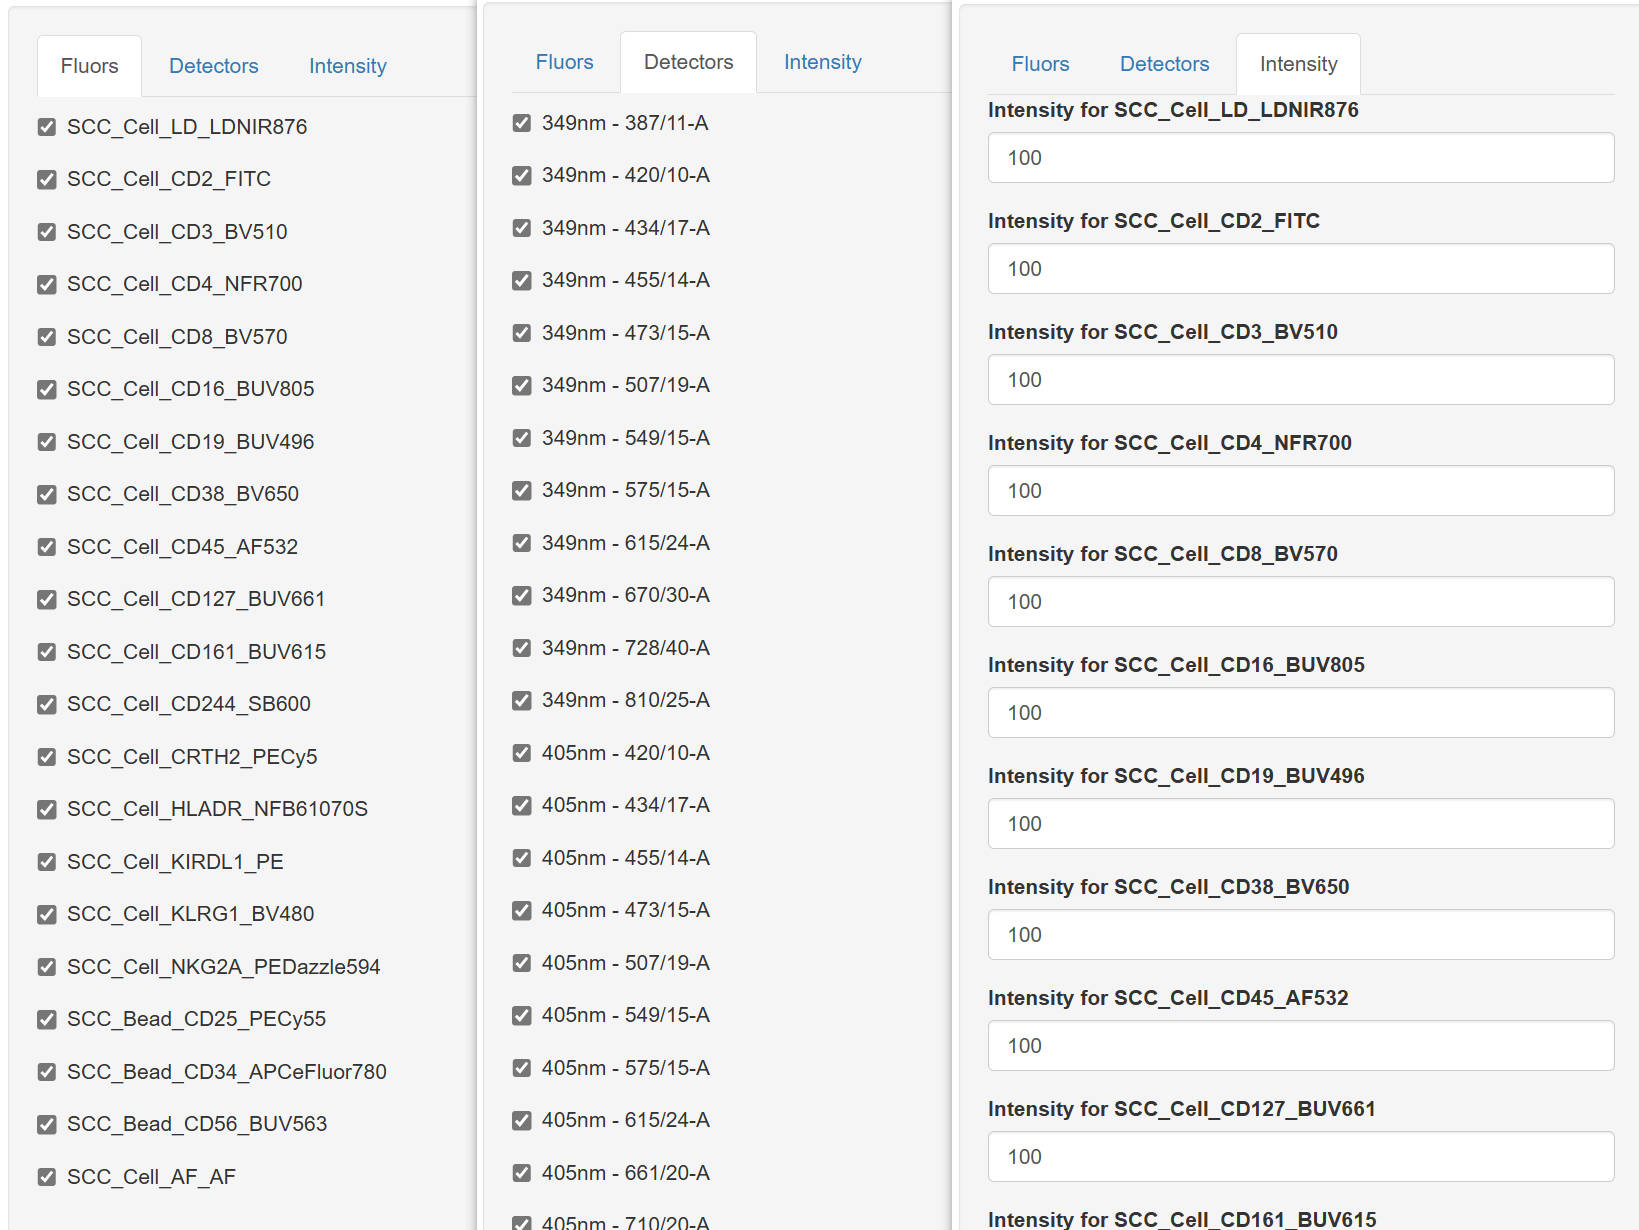
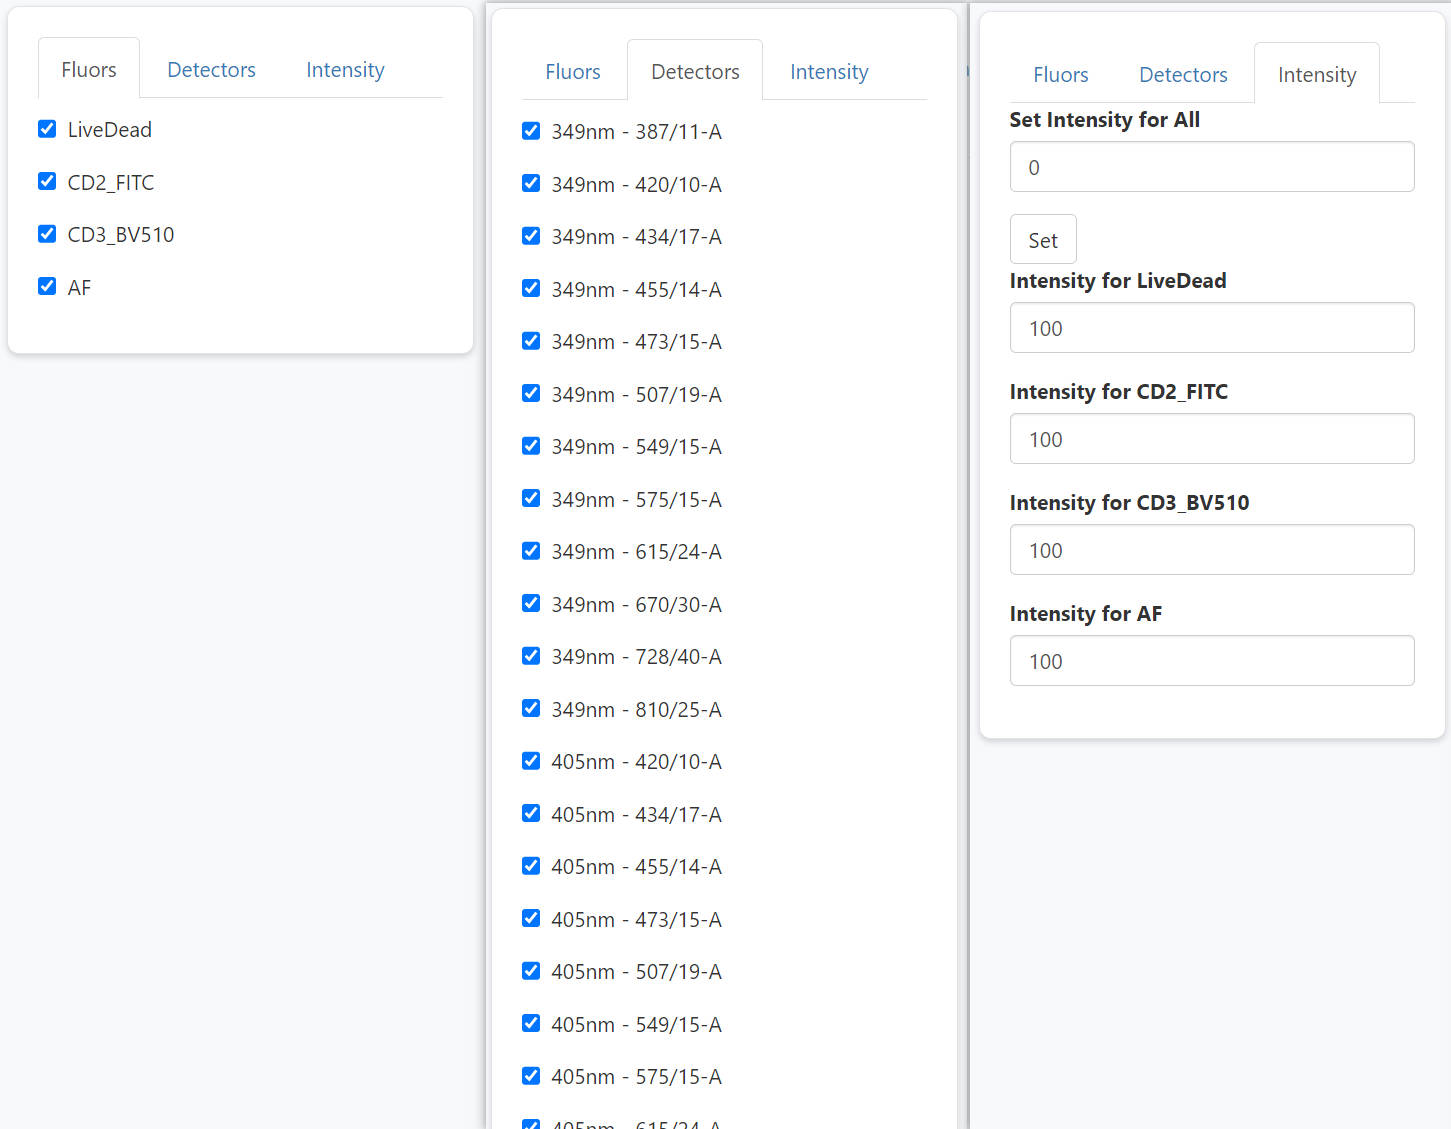
update instruction

diff --git a/instruction_basic.md b/instruction_basic.md
@@ -2,13 +2,13 @@
 
 Xiangming Cai
 
-2025-10-20
+2025-11-22
 
 ## 🔍 Introduction
 
-The USERM package provides an out-of-box tool to apply the residual model approach [^1], which characterizes and predicts the spread of unmixed spectral flow cytometry data, which arises from instrumental noise or deviations between actual cellular emission and the average fluorescence signatures.
+The USERM provides an out-of-box tool to apply the residual model approach [^1], which characterizes and predicts the spread of unmixed spectral flow cytometry data, which arises from instrumental noise or deviations between actual cellular emission and the average fluorescence signatures.
 
-The USERM also supports computing various matrixes tools for panel design, including the Coef Matrix, the Hotspot Matrix, and the Similarity Matrix, and the Spread Distance Matrix.
+The USERM also supports computing various matrixes tools for panel design, including the Coef Matrix, the Hotspot Matrix, and the Similarity Matrix, and many others.
 
 
 ## 💻 Installation
@@ -58,7 +58,7 @@ checkSig_linePlot(id = fluor_to_check)
 
 </p>
 
-These available fluorescence were preprocessed with parameters extracted for redisual model. To access the corresponding residaul model and its parameters, you can use the getRes function.
+These available fluorescence were preprocessed with parameters extracted for residual model. To access the corresponding residaul model and its parameters, you can use the getRes function.
 
 ``` r
 ResObj = getRes(id = fluor_to_check)
@@ -69,7 +69,7 @@ ResObj = getRes(id = fluor_to_check)
 
 </p>
 
-The ResObj Object contains all relavant informations. Please read our paper (mentioned on the top) to know the concepts of each matrix shown here. See \code{\link{CreateRes}} and \code{\link{SlopEstimation}} for detailed introduction of the structure of ResObj.
+The ResObj Object contains all relavant informations. If you are interested, please read our paper (mentioned on the top) to know the concepts of each matrix shown here. See \code{\link{CreateRes}} and \code{\link{SlopEstimation}} for detailed introduction of the structure of ResObj.
 
 You can easily visaulize all these matrixes, when you are interested in any one of them.
 
@@ -118,28 +118,22 @@ checkRes_covScatter(Res = ResObj,
 </p>
 
 
-## Step 2 🖊 Select fluors and create SuprObj
+## Step 2 🖊 Select and rename fluors and create SuprObj
 
-You may now select fluorescence to make a panel. Of note, the targets (e.g. CD3, CD4) do not matter here, as long as the fluorescence matches. That means if you plan to use FITC-CD4 in you panel, you can use FITC-CD2 in the USERM to make estimation and prediction. 
-If the fluorescence that you need were not available in the USERM, you can prepare single color control FCS file yourself and process it following other [instruction](../instruction_customFCS.md). 
+You may now select fluorescence to make a panel. Of note, the targets (e.g. CD3, CD4) do not matter here, only the fluorescence matches. That means if you plan to use FITC-CD4 in you panel, you can use FITC-CD2 in the USERM to make estimation and prediction. 
+If the fluorescence that you need were not available in the USERM, you can prepare single color control FCS file yourself and process it following this custom [instruction](../instruction_customFCS.md). 
 
 Assume all fluorescence that you need is available, now you can select them out:
 ``` r
-fluors_selected = c(Sig_info$id[c(32:38,41:42,46:48,50:54,8,9,12,63)])
-print(fluors_selected)
+fluors_selected = c(Sig_info$id[c(32:34,63)])
+fluors_selected
+
 ```
 ``` r
-> print(fluors_selected)
- [1] "SCC_Cell_LD_LDNIR876"       "SCC_Cell_CD2_FITC"          "SCC_Cell_CD3_BV510"        
- [4] "SCC_Cell_CD4_NFR700"        "SCC_Cell_CD8_BV570"         "SCC_Cell_CD16_BUV805"      
- [7] "SCC_Cell_CD19_BUV496"       "SCC_Cell_CD38_BV650"        "SCC_Cell_CD45_AF532"       
-[10] "SCC_Cell_CD127_BUV661"      "SCC_Cell_CD161_BUV615"      "SCC_Cell_CD244_SB600"      
-[13] "SCC_Cell_CRTH2_PECy5"       "SCC_Cell_HLADR_NFB61070S"   "SCC_Cell_KIRDL1_PE"        
-[16] "SCC_Cell_KLRG1_BV480"       "SCC_Cell_NKG2A_PEDazzle594" "SCC_Bead_CD25_PECy55"      
-[19] "SCC_Bead_CD34_APCeFluor780" "SCC_Bead_CD56_BUV563"       "SCC_Cell_AF_AF"   
+> fluors_selected
+[1] "SCC_Cell_LD_LDNIR876" "SCC_Cell_CD2_FITC"    "SCC_Cell_CD3_BV510"   "SCC_Cell_AF_AF"   
 ```
-Here we select 20 fluorescence plus autofluorescence (AF) to make a panel. Notely, both SCC Cells and Beads are using together. Based on our research, it is ok to use SCC beads for prediction.
-
+Here we select 3 fluorescence plus autofluorescence (AF) to make a simple panel. If you expecting more (>40), just select all of them. Notely, both SCC Cells and Beads are using together. Based on our research, it is ok to use SCC beads for prediction.
 
 Now, we can create the signature matrix of selected fluorescence
 ``` r
@@ -148,7 +142,7 @@ dim(Sig_mtx)
 ```
 ``` r
 > dim(Sig_mtx)
-[1] 51 21
+[1] 51 4
 ```
 
 Then, we create a UsermObj to contain all ResObj. 
@@ -167,15 +161,36 @@ for (save_suf in colnames(Sig_mtx)) {
 
 </p>
 
-The UsermObj contains all information needed for prediction.  The Res item is a list with ResObj of each fluorescence. The Scale_df item contains the scale setting for visualization afterward. It is ok to leave it as NA. Default linear scale will be applied (Options: "Linear", "Log10", "Arcsinh"). The Intensity_mtx contains the estimated fluorescence intensities of cell populations. In the example shown here, we have one default populaiton named "V1". You can modify the name or intensities or add new populations for interactive prediction in Step 3.
+The UsermObj contains all information needed for prediction. The Res item is a list with ResObj of each fluorescence. The Scale_df item contains the scale setting for visualization afterward. It is ok to leave it as NA. Default linear scale will be applied (Options: "Linear", "Log10", "Arcsinh"). The Intensity_mtx contains the estimated fluorescence intensities of cell populations. In the example shown here, we have one default populaiton named "P1". You can modify the name or intensities or add new populations for interactive prediction in Step 3.
+
+
+If you hope to rename the fluorescence, you can do this now:
+``` r
+UsermObj = RenameFluor(Userm = UsermObj,raw_name = "SCC_Cell_LD_LDNIR876",new_name = "LiveDead")
+UsermObj = RenameFluor(Userm = UsermObj,raw_name = "SCC_Cell_CD2_FITC",new_name = "CD2_FITC")
+UsermObj = RenameFluor(Userm = UsermObj,raw_name = "SCC_Cell_CD3_BV510",new_name = "CD3_BV510")
+UsermObj = RenameFluor(Userm = UsermObj,raw_name = "SCC_Cell_AF_AF",new_name = "AF")
+```
+``` r
+> UsermObj = RenameFluor(Userm = UsermObj,raw_name = "SCC_Cell_LD_LDNIR876",new_name = "LiveDead")
+Successfully renamed SCC_Cell_LD_LDNIR876 as LiveDead
+> UsermObj = RenameFluor(Userm = UsermObj,raw_name = "SCC_Cell_CD2_FITC",new_name = "CD2_FITC")
+Successfully renamed SCC_Cell_CD2_FITC as CD2_FITC
+> UsermObj = RenameFluor(Userm = UsermObj,raw_name = "SCC_Cell_CD3_BV510",new_name = "CD3_BV510")
+Successfully renamed SCC_Cell_CD3_BV510 as CD3_BV510
+> UsermObj = RenameFluor(Userm = UsermObj,raw_name = "SCC_Cell_AF_AF",new_name = "AF")
+Successfully renamed SCC_Cell_AF_AF as AF  
+```
+
+
 
 ## Step 3 🧮 Make prediction (optional)
 
-We can now interactively predict spread from residual model, which accounts for instrumental noise and deviations between actual cellular emission and the average fluorescence signatures.
+We can now interactively predict spread with residual model, which accounts for instrumental noise and deviations between actual cellular emission and the average fluorescence signatures.
 
 To predict for one population:
 ``` r
-PredOneSpread(Userm = UsermObj,population_id = c("V1"))
+PredOneSpread(Userm = UsermObj,population_id = c("P1"))
 ```
 <p align="center">
 
@@ -191,7 +206,7 @@ You will see a pop-out shinyapp window.
 
 </p>
 
-The left panel allows users to interactively select and un-select fluroescence and detectors, and modify intensities. So that users can flexibily explore the impact of fluorescence combination and intensities on the predicted spread.
+The left panel allows users to interactively select and un-select fluroescence and detectors, and modify intensities. So that users can flexibly explore the impact of fluorescence combination and intensities on the predicted spread. Of note, you can use set-all button to adjust all intensities together. This can be handy when you want to set all of them as 0 except one fluorescence, in which case you are simulating a SCC sample.
 
 <p align="center">
 
@@ -199,7 +214,7 @@ The left panel allows users to interactively select and un-select fluroescence a
 
 </p>
 
-The right panel have some tabs. The unmixing matrix is signature matrix.
+The right panel have some tabs. The signature matrix contains all normalized signatures. If you want to adjust the color threshold, you may scroll down to the bottom and set new color threshold. There are tow ways to use different color palette. First, you can get the matrix with mathods described in Step1 or Step4, and visualize with the Vis_Mtx function, which is also described in Step4. Another method is that you can directly copy and paste the whole matrix into Excel and apply distinct color palette in Excel or other software.
 
 <p align="center">
 
@@ -216,6 +231,8 @@ In the prediction tab, you will see a scatter plot visualizing the 95% range of 
 </p>
 
 Of note, you can now set the ***Factor for default Autofluorescence*** to control the displayed spread from AF. the displayed spread will be multiplied with the (factor / 100). So, when the factor is set to 100, the estimated spread from AF will be displayed completely. If the factor is set to 0, the spread from AF will be removed. This helps to check only the spread from noise. 
+
+#!!! update first, and continue from here.
 
 <p align="center">
 
